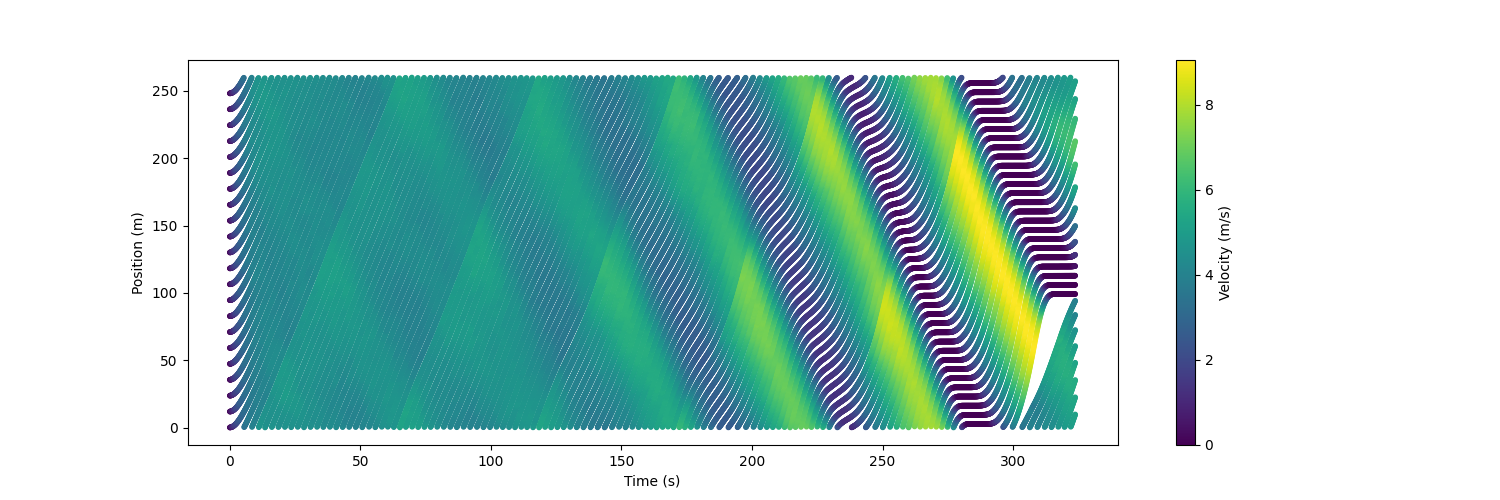
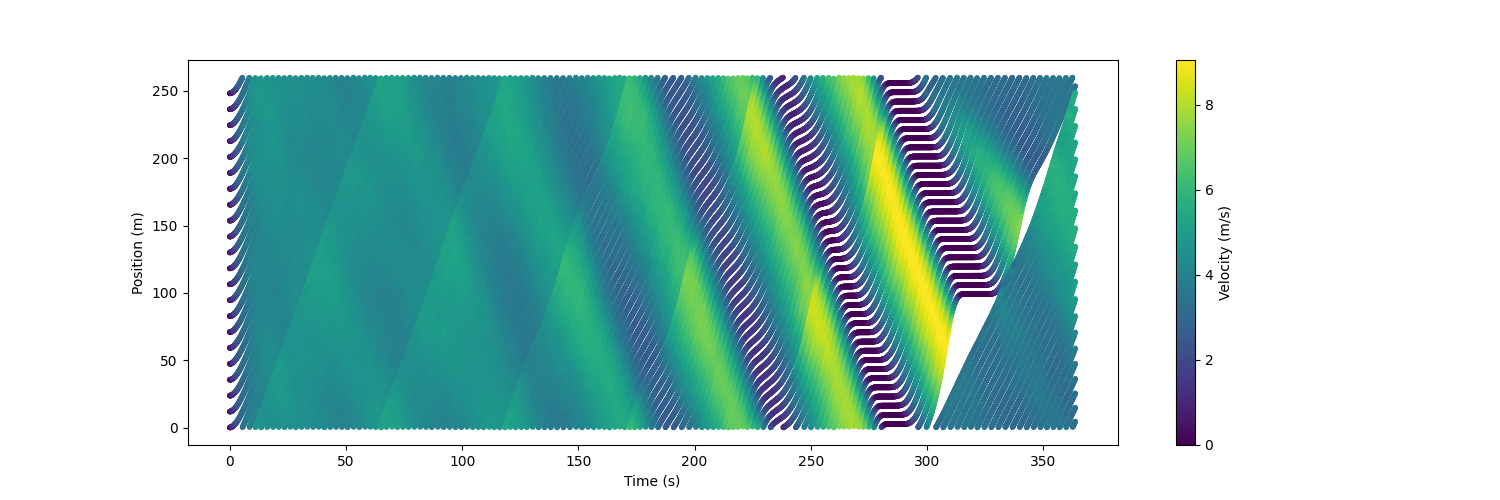
config change

diff --git a/Ring_Road/envs/ringroad.py b/Ring_Road/envs/ringroad.py
@@ -122,9 +122,9 @@ class RingRoad(gym.Env):
 
         # reward average velocity
         eta_2 = 4.
-        reward = self.state_extractor.get_average_vel()
+        reward = 4 * self.state_extractor.get_average_vel() / 5
         # punish accelerations (should lead to reduced stop-and-go waves)
-        eta = 0.25  # 0.25
+        eta = 2  # 0.25
         mean_actions = eta * np.mean(np.abs(action))
         accel_threshold = 0
 

diff --git a/Ring_Road/vehicle/vehicle.py b/Ring_Road/vehicle/vehicle.py
@@ -184,7 +184,7 @@ class Agent(Car):
                 self.agent_type = "idm"
 
         accel_action = self._run_control(avg_vel)
-        # accel_action = state_extractor.failsafe_action(accel_action)
+        accel_action = state_extractor.failsafe_action(accel_action)
         self._update_vel(accel_action)
         self.update_positions()
 
